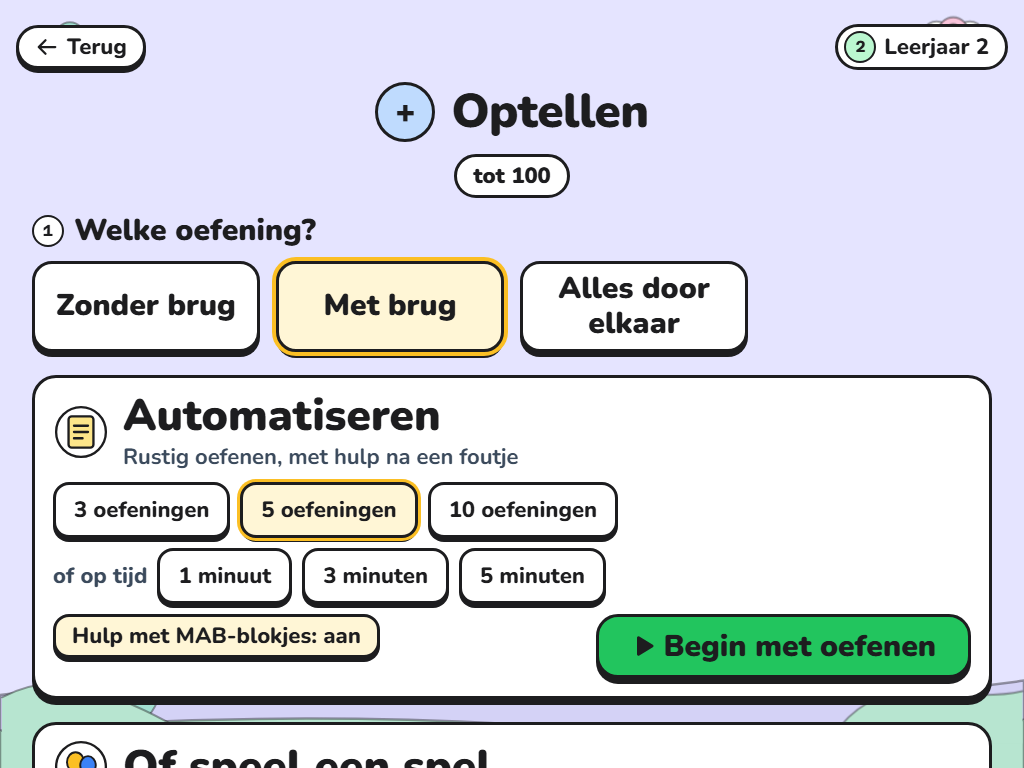
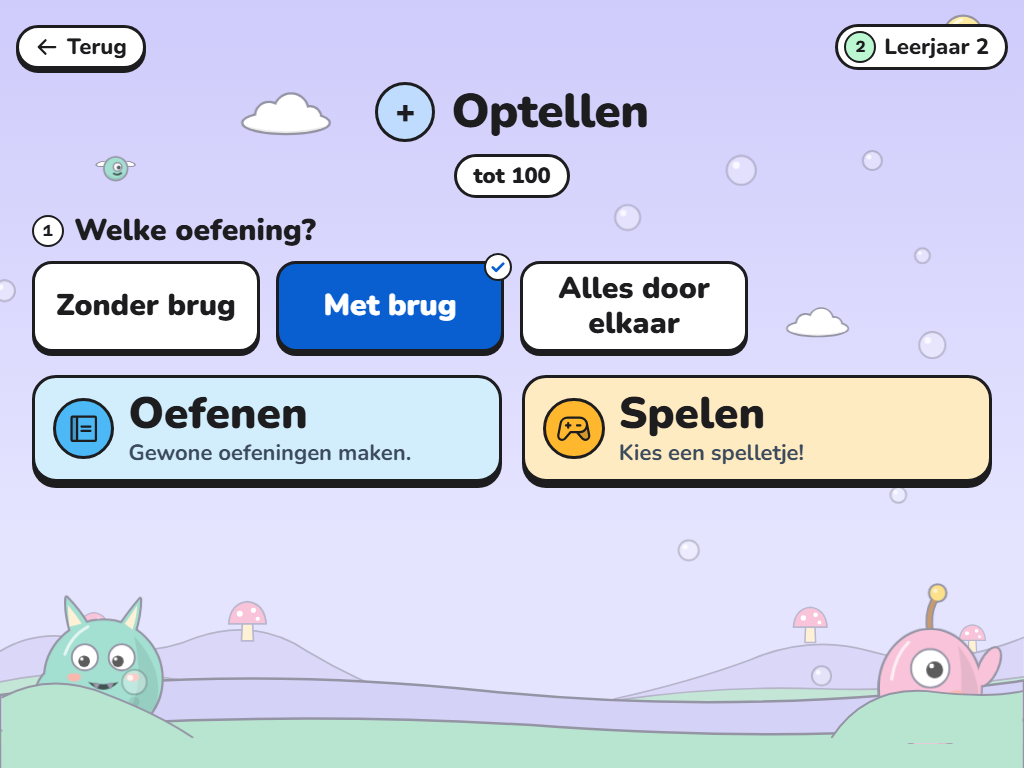
chore(release): 2.0.3 release notes and the manual's 34 games
Release notes for round 6 (eleven games, four levels, the Wespenkoningin,
the Zelf oefenen restyle, the steps-icon setting); package version 2.0.3.
The manual lists all 34 games in their four groups (the five round-5 duels
were missing too), explains the level choice and the seasons; about and faq
say 34. The Zelf oefenen figures are re-shot after the restyle; the shots
script opens Oefenen first, as the device now remembers the last way.

diff --git a/handleiding.html b/handleiding.html
@@ -421,15 +421,15 @@
         <figcaption>Eén scherm: wat oefenen, dan Oefenen of Spelen.</figcaption>
       </figure>
       <figure class="shot">
-        <img src="/handleiding/zelf-spellen.png" alt="De spellen onder Rustig spelen: Pinguïntoren, Ballonnen, Zeehondjes voeren, Race, Verborgen prent, Schatkist, Speelgoedfabriek, Kerstboom versieren en Eieren zoeken, elk met een plaatje" width="1024" height="768" loading="lazy" />
+        <img src="/handleiding/zelf-spellen.png" alt="De spellen onder Rustig spelen: Pinguïntoren, Ballonnen, Zeehondjes voeren, Race, Verborgen prent, Schatkist, Speelgoedfabriek, Kerstboom versieren, Eieren zoeken, Grijpmachine en Aquarium, elk met een plaatje" width="1024" height="768" loading="lazy" />
         <figcaption>De spellen, per groep.</figcaption>
       </figure>
-      <p>Welke spelen je ziet, hangt van de oefening af: een spel staat er alleen als het bij de gekozen sommen past. Rond Sinterklaas, Kerstmis, Valentijn, Pasen en de lente komt er een seizoensspel bij, met een <em>nu!</em>-stempel.</p>
+      <p>Welke spelen je ziet, hangt van de oefening af: een spel staat er alleen als het bij de gekozen sommen past. Rond Halloween, Kerstmis, Valentijn en Pasen, in de lente, de winter en de zomer staat het spel van dat seizoen vooraan, met een <em>nu!</em>-stempel. Elk spel blijft het hele jaar speelbaar.</p>
       <h3>Spelen in het kort</h3>
       <ul>
         <li>Elke som is één poging. Een fout antwoord toont even het juiste antwoord en wordt <strong>bijgehouden</strong>. Op het eindscherm kan de leerling alle foutjes <strong>nakijken</strong>, in het gewone oefenscherm met de stappenhulp erbij.</li>
         <li>Zit hij vast, dan tikt hij op <strong>Hoe los ik dit op?</strong>. Het spel wacht, de stappen verschijnen en die som telt <em>met hulp</em>: geen punt, maar ook geen fout.</li>
-        <li>Sommige spelen vragen vooraf een keuze, zoals <em>Normaal</em> of <em>Moeilijk</em>, hoe lang het duurt of hoeveel juiste antwoorden nodig zijn.</li>
+        <li>Spelen met keuzes vragen vooraf <strong>hoe moeilijk</strong>: <em>Makkelijk</em> (zonder klok), <em>Normaal</em>, <em>Moeilijk</em> of <em>Onmogelijk</em>. Vanaf Normaal krijgt elke som een klokje; na een minuut wordt het sneller, en hoe hoger het niveau, hoe sneller. Een vlammetje op de knop betekent: moeilijker, maar niet op tijd. Soms kies je ook hoe lang het duurt, hoeveel levens of hoeveel rondes.</li>
         <li><strong>Geluid en muziek</strong> staan standaard aan. De luidsprekerknop wisselt tussen <em>Uit</em>, <em>Geluid</em> en <em>Geluid + muziek</em>. Op school wil je dat misschien eerst uitzetten.</li>
         <li>Een spel kan op <strong>volledig scherm</strong>. Daarna staat bovenaan een knop <em>Volledig scherm uit</em>.</li>
         <li>Met <strong>Terug</strong> (twee tikken) stopt de leerling. Wat al gespeeld is, blijft bewaard op dat toestel.</li>
@@ -438,7 +438,7 @@
         <img src="/handleiding/zelf-spel.png" alt="Het spel Ballonnen: bovenaan de som 17 plus 5 met vier ballonnen met een antwoord, en een balk met Terug, Volledig scherm uit, de luidspreker, de punten en Hoe los ik dit op" width="1024" height="768" loading="lazy" />
         <figcaption>Ballonnen: prik de ballon met het juiste antwoord.</figcaption>
       </figure>
-      <h3>De 18 spelen</h3>
+      <h3>De 34 spelen</h3>
       <p><strong>Rustig spelen</strong></p>
       <ul>
         <li><strong>Pinguïntoren</strong>: bouw een toren voor de pinguïn. Elk juist antwoord is een blok erbij.</li>
@@ -448,6 +448,8 @@
         <li><strong>Verborgen prent</strong>: elk juist antwoord draait een tegel om. Welk dier zit eronder?</li>
         <li><strong>Schatkist</strong>: vind de cijfers van de code en open de schatkist.</li>
         <li><strong>Speelgoedfabriek</strong> (vroeger Pakjesband): tik het pakje met het juiste antwoord. Te veel foutjes en de machine sputtert.</li>
+        <li><strong>Grijpmachine</strong>: laat de grijper zakken boven de knuffel met het juiste antwoord. Elke keer een andere speelhal.</li>
+        <li><strong>Aquarium</strong> (in de zomer): elk juist antwoord brengt een vis in het aquarium. Pas op voor de kat.</li>
         <li><strong>Kerstboom versieren</strong> (rond Kerstmis): elk juist antwoord hangt iets in de boom.</li>
         <li><strong>Eieren zoeken</strong> (rond Pasen): zoek het ei met het juiste antwoord in het gras.</li>
       </ul>
@@ -458,16 +460,31 @@
         <li><strong>Bever</strong>: help de bever. Juiste antwoorden houden het water achter de dam.</li>
         <li><strong>Voetbal</strong>: speel een match. Vier juiste antwoorden en dan mag je op doel schieten.</li>
         <li><strong>Mollen meppen</strong>: mep snel de mol met het juiste antwoord.</li>
-        <li><strong>Kasteel</strong>: schiet met je katapult. Elk juist antwoord raakt het andere kasteel. Alleen tegen de computer of met twee.</li>
+        <li><strong>Frituur</strong>: geef elke klant de juiste snack voor zijn geduld op is.</li>
+        <li><strong>Brandweer</strong>: blus het raam met het juiste antwoord voor het vuur overslaat.</li>
+        <li><strong>Skislalom</strong> (in de winter): skiet door de juiste poortjes de berg af.</li>
       </ul>
-      <p><strong>Samen spelen</strong></p>
+      <p><strong>Samen spelen</strong> (met z'n tweeën op één scherm, of alleen tegen de computer)</p>
       <ul>
-        <li><strong>Touwtrekken</strong>: met z'n tweeën op één scherm. Wie juist antwoordt, trekt aan het touw.</li>
+        <li><strong>Touwtrekken</strong>: wie juist antwoordt, trekt aan het touw.</li>
+        <li><strong>Kasteel</strong>: schiet met je katapult. Elk juist antwoord raakt het andere kasteel.</li>
+        <li><strong>Taartgevecht</strong>: wie eerst juist antwoordt, gooit een taart.</li>
+        <li><strong>Kikkers en vliegjes</strong>: vang met je tong de vliegjes voor de andere kikker.</li>
+        <li><strong>Robotduel</strong>: juiste antwoorden zijn stoten; drie op rij is een supertrap.</li>
+        <li><strong>Meteorietenregen</strong>: stuur meteorieten naar de andere basis op Mars, en bouw een schild.</li>
+        <li><strong>Tovenaarsduel</strong>: hoe langer je reeks juiste antwoorden, hoe sterker je spreuk.</li>
+        <li><strong>Drakenrace</strong>: vlieg met je draak naar de gong. Drie op rij en de bliksem treft de andere draak.</li>
+        <li><strong>Wildwaterrace</strong> (in de zomer): peddel de rivier af en surf op de golven tot over de waterval.</li>
+        <li><strong>Monstertrucks</strong>: geef gas. Drie op rij en je springt over de auto's.</li>
+        <li><strong>Steekspel</strong>: twee ridders stormen op elkaar af. Drie op rij en je lans gaat omlaag.</li>
       </ul>
+      <p>Bij samen spelen kies je ook het aantal levens (of hoe lang de baan is) en hoeveel rondes. Hoe hoger het niveau, hoe sterker de computer speelt.</p>
       <p><strong>Zoeken en koppelen</strong></p>
       <ul>
         <li><strong>Hartjes koppelen</strong> (rond Valentijn): draai de hartjes om en zoek een som met haar antwoord.</li>
-        <li><strong>Honingraat</strong> (in de lente): zoek in de honingraat alle sommen die het getal maken.</li>
+        <li><strong>Voetbalkaartjes</strong>: hetzelfde met voetbalkaartjes, het hele jaar.</li>
+        <li><strong>Honingraat</strong> (in de lente): zoek in de honingraat alle sommen die het getal maken. Vanaf Normaal komen er wespen, en op Moeilijk en Onmogelijk op het einde de Wespenkoningin.</li>
+        <li><strong>Spookhuis</strong> (rond Halloween): zoek de paren met je zaklamp in het donker.</li>
       </ul>
       <h3>Oefenen met hulp</h3>
       <p>Kiest de leerling <strong>Begin met oefenen</strong>, dan krijgt hij na een fout dezelfde stappenhulp als in Oefenmodus, met de MAB-blokjes erbij. Met <strong>Nog eens proberen</strong> maakt hij dezelfde som opnieuw, zonder dat het meetelt.</p>

diff --git a/src/config/releaseNotes.ts b/src/config/releaseNotes.ts
@@ -31,6 +31,23 @@ export interface ReleaseNote {
 
 export const RELEASE_NOTES: readonly ReleaseNote[] = [
     {
+        version: '2.0.3',
+        date: '2026-11',
+        summary: 'Nieuw: elf spelletjes erbij (34 in totaal), vier niveaus van Makkelijk tot Onmogelijk, en een frisse look voor Zelf oefenen.',
+        items: [
+            { kind: 'nieuw', text: 'Zeven nieuwe spelletjes: Frituur, Brandweer, Skislalom, Grijpmachine, Aquarium, Spookhuis en Voetbalkaartjes.' },
+            { kind: 'nieuw', text: 'Vier nieuwe races voor twee, ook tegen de computer: Drakenrace, Wildwaterrace, Monstertrucks en Steekspel.' },
+            { kind: 'nieuw', text: 'Spelletjes met keuzes hebben nu vier niveaus: Makkelijk (zonder klok), Normaal, Moeilijk en Onmogelijk. De klok per som wordt na een minuut sneller.' },
+            { kind: 'gewijzigd', text: 'Tegen de computer speelt die sterker naarmate je een hoger niveau kiest. Duelspellen: kies 5 tot 25 levens.' },
+            { kind: 'nieuw', text: 'Honingraat: op Moeilijk en Onmogelijk komt op het einde de Wespenkoningin de honing halen. Raak haar genoeg keer en ze vlucht!' },
+            { kind: 'gewijzigd', text: 'Hartjes koppelen en Voetbalkaartjes: 4 tot 8 paren. Op Onmogelijk heb je 10 kansen.' },
+            { kind: 'nieuw', text: 'Seizoenen: rond Halloween, in de winter en in de zomer staan er spelletjes vooraan met een nu!-stempel. Elk spel blijft het hele jaar speelbaar.' },
+            { kind: 'gewijzigd', text: 'Zelf oefenen: Oefenen en Spelen hebben elk hun eigen kleur, en je kiest hoe lang je oefent: 3, 5, 10 of 20 oefeningen, of 1, 3 of 5 minuten.' },
+            { kind: 'gewijzigd', text: 'Zelf oefenen: alleen wat je kunt aantikken, ziet eruit als een knop. De tafels 1 tot 10 staan samen op de eerste rij.' },
+            { kind: 'nieuw', text: 'Werkblad met stappenhulp-QR: kies of het stappen-icoon links of rechts van de opdracht staat, of verberg het.' },
+        ],
+    },
+    {
         version: '2.0.2',
         date: '2026-11',
         summary: 'Nieuw: vijf spelletjes voor twee, ook tegen de computer, en in Zelf oefenen eerst kiezen: Oefenen of Spelen.',

diff --git a/faq.html b/faq.html
@@ -95,7 +95,7 @@
         {
           "@type": "Question",
           "name": "Kunnen leerlingen zelf oefenen?",
-          "acceptedAnswer": { "@type": "Answer", "text": "Ja. Op rekenraak.be/kind.html kiest een leerling zijn leerjaar en een onderwerp, en daarna oefenen of een van de 18 rekenspelletjes. Na afloop kan hij zijn foutjes nakijken. Er is geen account nodig en er wordt niets op een server bewaard." }
+          "acceptedAnswer": { "@type": "Answer", "text": "Ja. Op rekenraak.be/kind.html kiest een leerling zijn leerjaar en een onderwerp, en daarna oefenen of een van de 34 rekenspelletjes. Na afloop kan hij zijn foutjes nakijken. Er is geen account nodig en er wordt niets op een server bewaard." }
         },
         {
           "@type": "Question",
@@ -255,7 +255,7 @@
 
       <div class="faq-item" id="zelf-oefenen">
         <h2>Kunnen leerlingen zelf oefenen?</h2>
-        <p>Ja. Op <a href="/kind.html">rekenraak.be/kind.html</a> kiest een leerling zijn leerjaar en een onderwerp, en daarna oefenen of een van de 18 rekenspelletjes. Na afloop kan hij zijn foutjes nakijken. Er is geen account nodig en er wordt niets op een server bewaard. Meer uitleg staat in de <a href="/handleiding.html#zelf-oefenen">handleiding</a>.</p>
+        <p>Ja. Op <a href="/kind.html">rekenraak.be/kind.html</a> kiest een leerling zijn leerjaar en een onderwerp, en daarna oefenen of een van de 34 rekenspelletjes. Na afloop kan hij zijn foutjes nakijken. Er is geen account nodig en er wordt niets op een server bewaard. Meer uitleg staat in de <a href="/handleiding.html#zelf-oefenen">handleiding</a>.</p>
       </div>
 
       <div class="faq-item" id="stappenhulp-qr">

diff --git a/about.html b/about.html
@@ -91,7 +91,7 @@
       </p>
       <p>
         Ook leerlingen kunnen er zelf mee aan de slag. Op <a href="/kind.html">rekenraak.be/kind.html</a>
-        kiezen ze hun leerjaar en een onderwerp, en oefenen ze of spelen ze een van de 18 rekenspelletjes.
+        kiezen ze hun leerjaar en een onderwerp, en oefenen ze of spelen ze een van de 34 rekenspelletjes.
         Met Oefenmodus deel je een oefensessie met een link, en een QR-code onderaan je blad laat leerlingen
         elke som stap voor stap bekijken. Alles zonder account. Hoe het werkt, staat in de
         <a href="/handleiding.html#zelf-oefenen">handleiding</a>.
